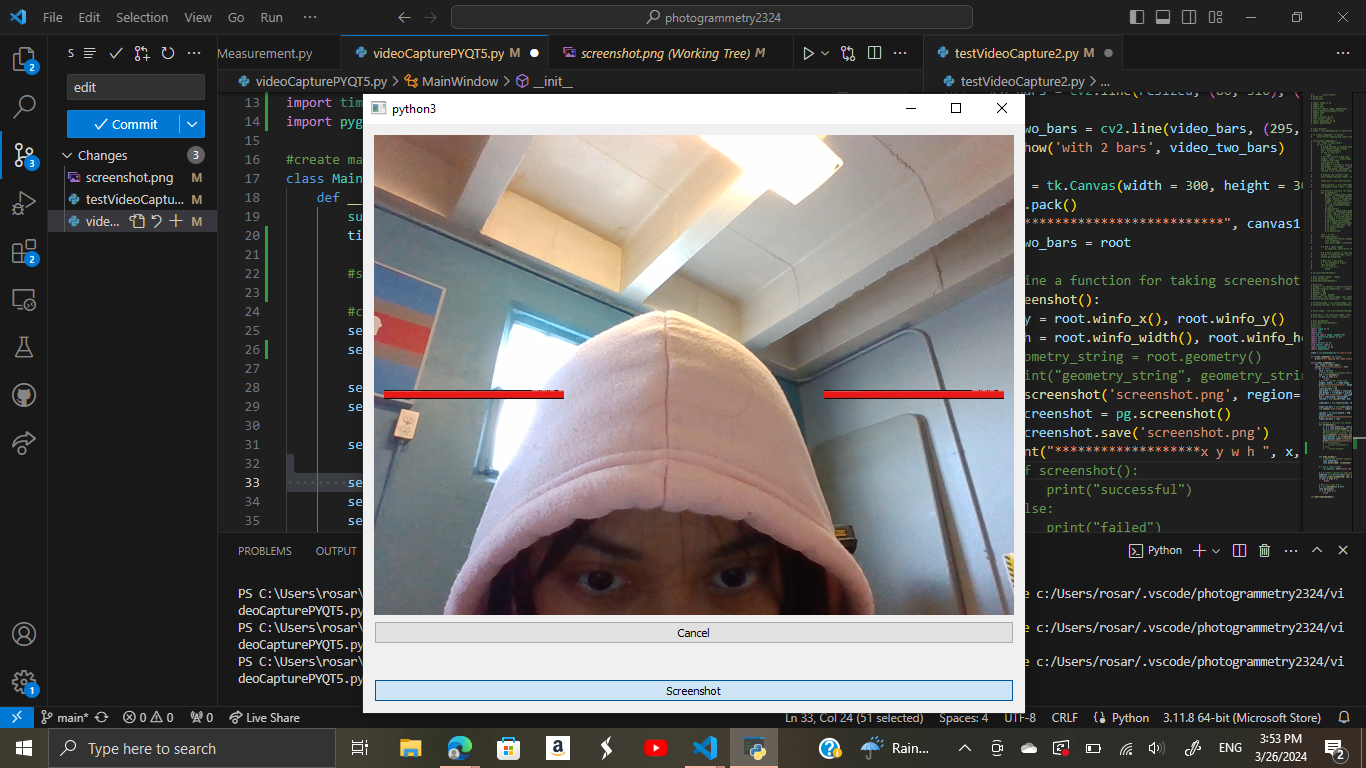
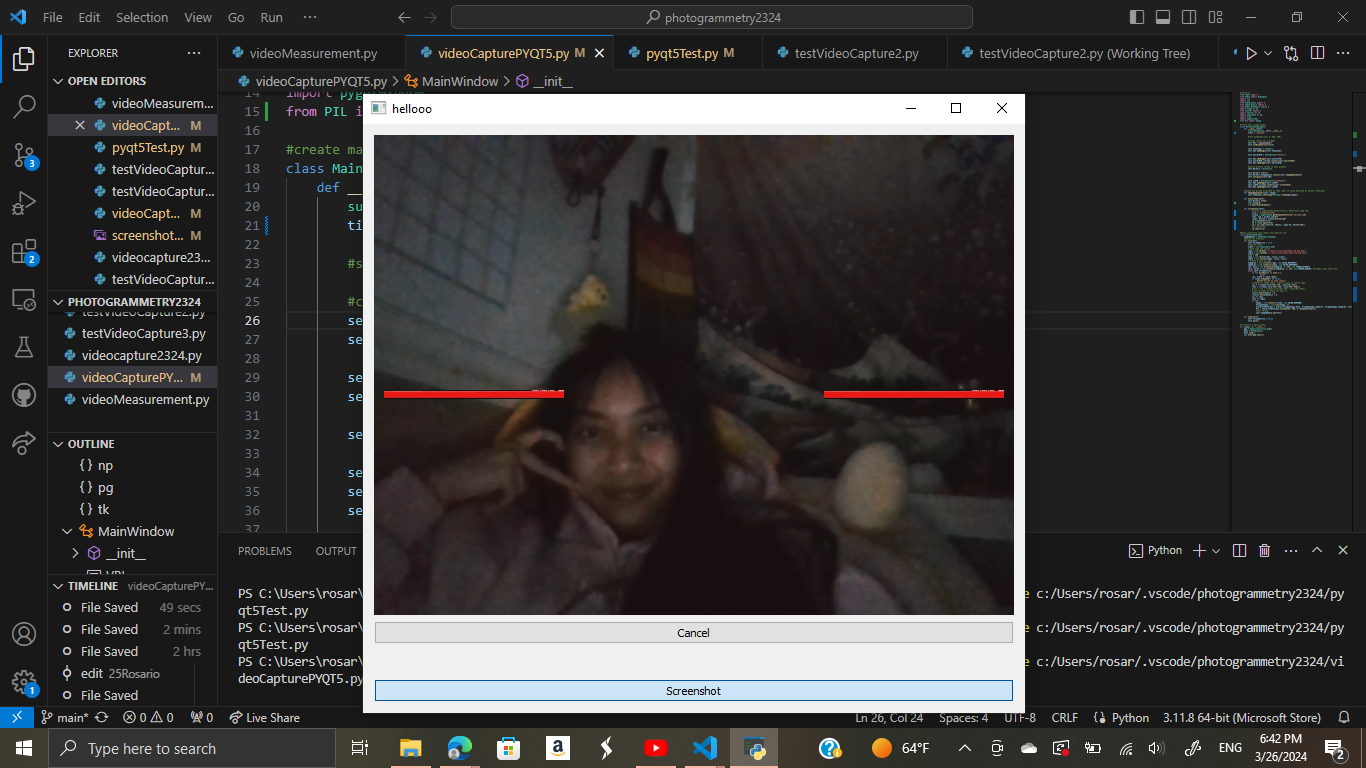
YAYAYAY

diff --git a/pyqt5Test.py b/pyqt5Test.py
@@ -1,34 +1,122 @@
-# importing the libraries 
-import cv2 
-import numpy as np 
+#libraries
+from PyQt5 import *
+from PyQt5 import QtWidgets
+import cv2
+import sys
+from PyQt5.QtGui import *
+from PyQt5.QtCore import *
+from PyQt5.QtWidgets import *
+import numpy as np
+from tkinter import *
+import tkinter as tk
+import pyautogui as pg
+import time
+import pygetwindow
+from PIL import Image
 
-# Setup camera 
-cap = cv2.VideoCapture(0) 
+#create main window object
+class MainWindow(QWidget):
+    def __init__(self):
+        super(MainWindow, self).__init__()
+        title = "hellooo"
+        
+        #self.setGeometry(0, 0, 500, 300)
 
-# Read logo and resize 
-logo = cv2.imread(r'C:/Users/rosar/Downloads/red.png.png') 
-size = 180
-logo = cv2.resize(logo, (size, size)) 
+        #create layout for q widget
+        self.VBL = QVBoxLayout()
+        self.setWindowTitle(title)
 
-# Create a mask of logo 
-img2gray = cv2.cvtColor(logo, cv2.COLOR_BGR2GRAY) 
-ret, mask = cv2.threshold(img2gray, 1, 255, cv2.THRESH_BINARY) 
+        self.FeedLabel = QLabel()
+        self.VBL.addWidget(self.FeedLabel)
 
-while True: 
-	# Capture frame-by-frame 
-	ret, frame = cap.read() 
+        self.CancelBTN = QPushButton("Cancel")
 
-	# Region of Image (ROI), where we want to insert logo 
-	roi = frame[-size-150:-150, -size-50:-50] 
+        self.VBL.addWidget(self.CancelBTN)
+        self.CancelBTN.clicked.connect(self.CancelFeed)
+        self.VBL.addWidget(self.CancelBTN)
 
-	# Set an index of where the mask is 
-	roi[np.where(mask)] = 0
-	roi += logo 
+        #define worker1 thread in main program
+        self.Worker1 = Worker1()
 
-	cv2.imshow('WebCam', frame) 
-	if cv2.waitKey(1) == ord('q'): 
-		break
+        self.Worker1.start()
+        self.Worker1.ImageUpdate.connect(self.ImageUpdateSlot)
+        self.setLayout(self.VBL)
 
-# When everything done, release the capture 
-cap.release() 
-cv2.destroyAllWindows() 
+        self.ssBTN = QPushButton("Screenshot")
+        self.VBL.addWidget(self.ssBTN)
+        self.ssBTN.clicked.connect(self.screenshot)
+        self.VBL.addWidget(self.ssBTN)
+
+    #change the pixmap displayed by feed label to value emmitted by worker1 (qthread) 
+    def ImageUpdateSlot(self, Image):
+        self.FeedLabel.setPixmap(QPixmap.fromImage(Image))
+
+    def CancelFeed(self):
+        self.Worker1.stop()
+        time.sleep(0)
+        cv2.destroyAllWindows()
+
+    def screenshot(self):
+            #titles = pygetwindow.getAllTitles() #prob dont need this
+            file = 'screenshot.png'
+            window = pygetwindow.getWindowsWithTitle('hellooo')[0]
+            left, top = window.topleft
+            right, bottom = window.bottomright
+            pg.screenshot(file)
+            im = Image.open(file)
+            im = im.crop((left+19, top+42, right-19, bottom-106))
+            #im.save(file)
+            im.show(file)
+
+#makes connection with camera and captures vid
+class Worker1(QThread):
+    ImageUpdate = pyqtSignal(QImage)
+    #define run function
+    def run(self):
+        self.ThreadActive = True
+        #capture video
+        video = cv2.VideoCapture(0)
+        # Read logo and resize 
+        logo = cv2.imread(r'C:/Users/rosar/Downloads/red.png.png') 
+        logo2 = cv2.imread(r'C:/Users/rosar/Downloads/red.png.png')
+        size = 180
+        logo = cv2.resize(logo, (size, size)) 
+        logo2 = cv2.resize(logo2, (size, size))
+        # Create a mask of logo 
+        img2gray = cv2.cvtColor(logo, cv2.COLOR_BGR2GRAY)
+        img3gray = cv2.cvtColor(logo2, cv2.COLOR_BGR2GRAY) 
+        ret, mask = cv2.threshold(img2gray, 1, 255, cv2.THRESH_BINARY)
+        ret2, mask2 = cv2.threshold(img3gray, 1, 255, cv2.THRESH_BINARY) #probably dont need ret2
+        while self.ThreadActive:
+            if cv2.waitKey(1) == ord('q'):
+                    break
+            ret, frame = video.read()
+            if video.isOpened() == False:
+                 print("Failed to open video")
+            # Region of Image (ROI), where we want to insert logo 
+            roi = ((frame[-size-150:-150, -size-10:-10]))
+            roi2 = ((frame[-size-150:-150, -size-450:-450]))
+            #roi1 = roi + (frame[-size-150:-150, -size-100:-100])
+            # Set an index of where the mask is 
+            roi[np.where(mask)] = 0
+            roi2[np.where(mask2)] = 0
+            roi += logo
+            roi2 += logo2 
+            if ret:
+                Image = cv2.cvtColor(frame, cv2.COLOR_BGR2RGB)
+                FlippedImage = cv2.flip(Image, 1)
+                ConvertToQtFormat = QImage(FlippedImage.data, FlippedImage.shape[1], FlippedImage.shape[0], QImage.Format_RGB888)
+                Pic = ConvertToQtFormat.scaled(640, 480, Qt.KeepAspectRatio)
+                #emit thread
+                self.ImageUpdate.emit(Pic)
+                
+    def stop(self):
+        self.ThreadActive = False
+        self.quit()
+
+#initialize q main window
+if __name__ == "__main__":
+    App = QApplication(sys.argv)
+    Root = MainWindow()
+    Root.show()
+    sys.exit(App.exec())

diff --git a/videoCapturePYQT5.py b/videoCapturePYQT5.py
@@ -12,12 +12,13 @@ import tkinter as tk
 import pyautogui as pg
 import time
 import pygetwindow
+from PIL import Image
 
 #create main window object
 class MainWindow(QWidget):
     def __init__(self):
         super(MainWindow, self).__init__()
-        title = "failure"
+        title = "hellooo"
         
         #self.setGeometry(0, 0, 500, 300)
 
@@ -52,41 +53,20 @@ class MainWindow(QWidget):
 
     def CancelFeed(self):
         self.Worker1.stop()
+        time.sleep(0)
         cv2.destroyAllWindows()
 
     def screenshot(self):
-            # #user input for the window
-            # #this will be taken out when we make several buttons
-            # #print("\nenter camera name: ")
-            # #cameraname = str(input(''))
-
-            window = pygetwindow.getActiveWindow() #set to the tool1 camera now, but will be nav when we make the popup
+            #titles = pygetwindow.getAllTitles() #prob dont need this
+            file = 'screenshot.png'
+            window = pygetwindow.getWindowsWithTitle('hellooo')[0]
             left, top = window.topleft
             right, bottom = window.bottomright
-            # random = int(time.time())
-            # # #filename = "C:/Users/kthog/guishots/" + str(random) + ".jpg"
-            # filename = "D:/screenshots/" + str(random) + ".png"
-
-            # # #find a way to get the camera window to the front
-            # # #move the frame to the other monitor and make sure its view is unobstructed
-            #pg.screenshot(filename, region=(left, top, right, bottom))
-            # # ss = Image.open(filename) #opens the image at the filename
-            # # ss = ss.crop((left, top, right, bottom)) #crops based on the coordinates acquired above
-            # # ss.save(filename) #saves the image to the path
-            # # ss.show(filename) #shows the image from the path
-            #pg.screenshot('screenshot.png', region=(left, top, right, bottom))
-            # MyScreenshot = pg.screenshot()
-            # MyScreenshot.save(filename)
-            pg.screenshot('screenshot.png', region=(left, top, right, bottom))
-            myScreenshot = pg.screenshot()
-            myScreenshot.save('screenshot.png')
-            # app = QtWidgets.QApplication(sys.argv)
-            # w = QtWidgets.QWidget()
-            # screen = app.primaryScreen()
-            #print('Screen: %s' % screen.name())
-            # screenshot = screen.grabWindow(w.winId())
-            # screenshot.save('screenshot.png')
-            
+            pg.screenshot(file)
+            im = Image.open(file)
+            im = im.crop((left+19, top+42, right-19, bottom-106))
+            #im.save(file)
+            im.show(file)
 
 #makes connection with camera and captures vid
 class Worker1(QThread):
